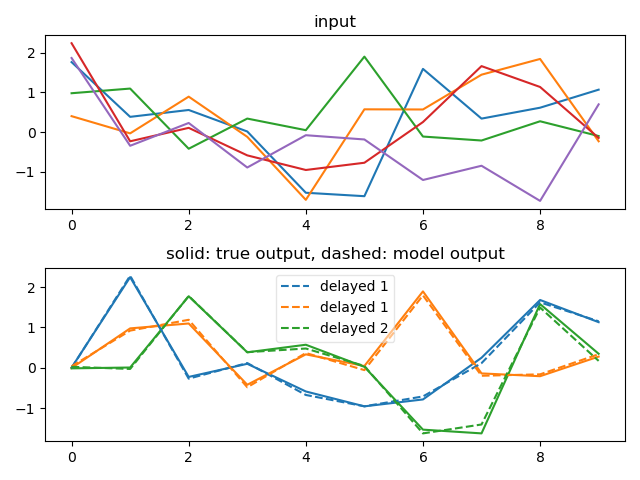
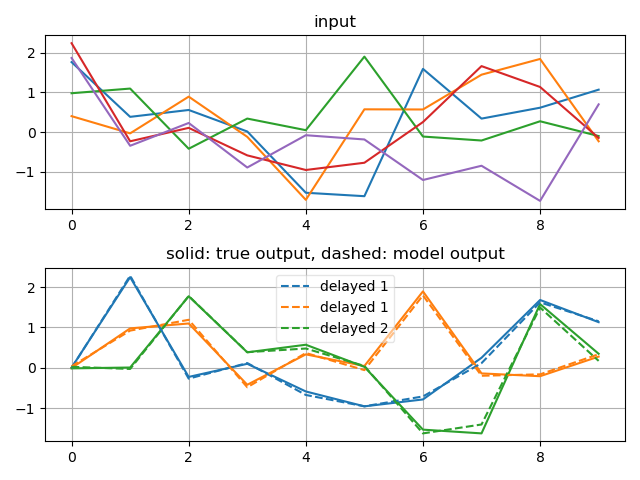
append grid in figures

diff --git a/rnn_minibatch.py b/rnn_minibatch.py
@@ -814,7 +814,9 @@ def test_real(n_epochs=1000):
     fig = plt.figure()
     ax1 = plt.subplot(2, 1, 1)
     plt.plot(seq[:, 0, :])
+    plt.grid(True)
     ax1.set_title('input')
+
     ax2 = plt.subplot(2, 1, 2)
     true_targets = plt.plot(targets[:, 0, :])
 
@@ -827,6 +829,7 @@ def test_real(n_epochs=1000):
     ax2.set_title('solid: true output, dashed: model output')
     ax2.legend(fontsize=10,framealpha=0.5)
 
+    plt.grid(True)
     plt.tight_layout()
     plt.savefig('doc/rnn_minibatch.png')
 
